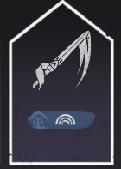
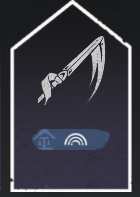
fix: upgrade WWM images to full resolution, add lightbox, remove sample build

diff --git a/src/content/builds/wwm-song-thuong-fist-preview.md b/src/content/builds/wwm-song-thuong-fist-preview.md
@@ -13,6 +13,14 @@ Sau 2 ngày nghịch sơ sơ võ học mới bên server CN, mình quyết đị
 
 ![Bảng ưu tiên chỉ số 8 món trang bị Song Thương](/images/wwm/song-thuong/image1.png)
 
+| Spear 1 | Spear 2 | Pendant | Disc | Helmet | Armor | Greaves | Bracer |
+| --- | --- | --- | --- | --- | --- | --- | --- |
+| Max Physical | Max Physical | Max Physical | Max Physical | Affinity Rate | Affinity Rate | Power | Power |
+| Max Physical | Max Physical | Max Physical | Max Physical | Max Physical | Max Physical | Max Physical | Max Physical |
+| Power | Power | Power | Power | Power | Power | Power | Power |
+| Momentum | Momentum | Momentum | Momentum | Momentum | Momentum | Momentum | Affinity |
+| Art Of Spear | Affinity Rate | All Martial Art Boost | All Martial Art Boost | Affinity Rate | Affinity Rate | Dmg Vs Boss | Dmg Vs Boss |
+
 ## Điểm Mạnh
 
 - **CƠ ĐỘNG:** 9k đã lướt nhiều rồi thì gặp ông này còn lướt nhiều gấp đôi, gần như là trung bình 1s lướt 1 lần.
